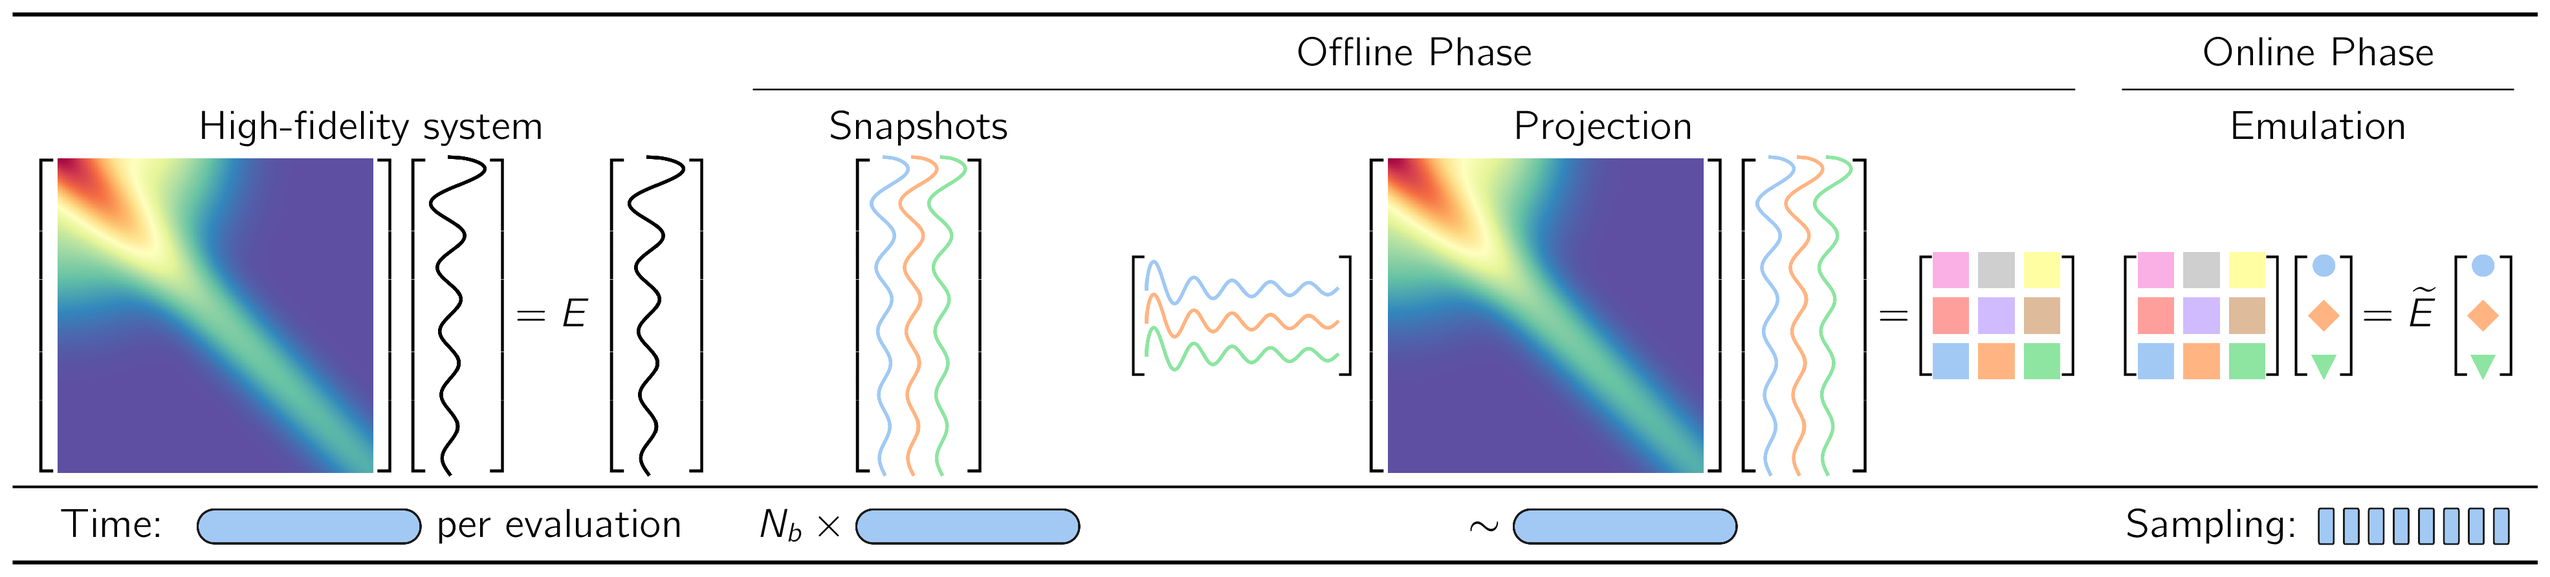
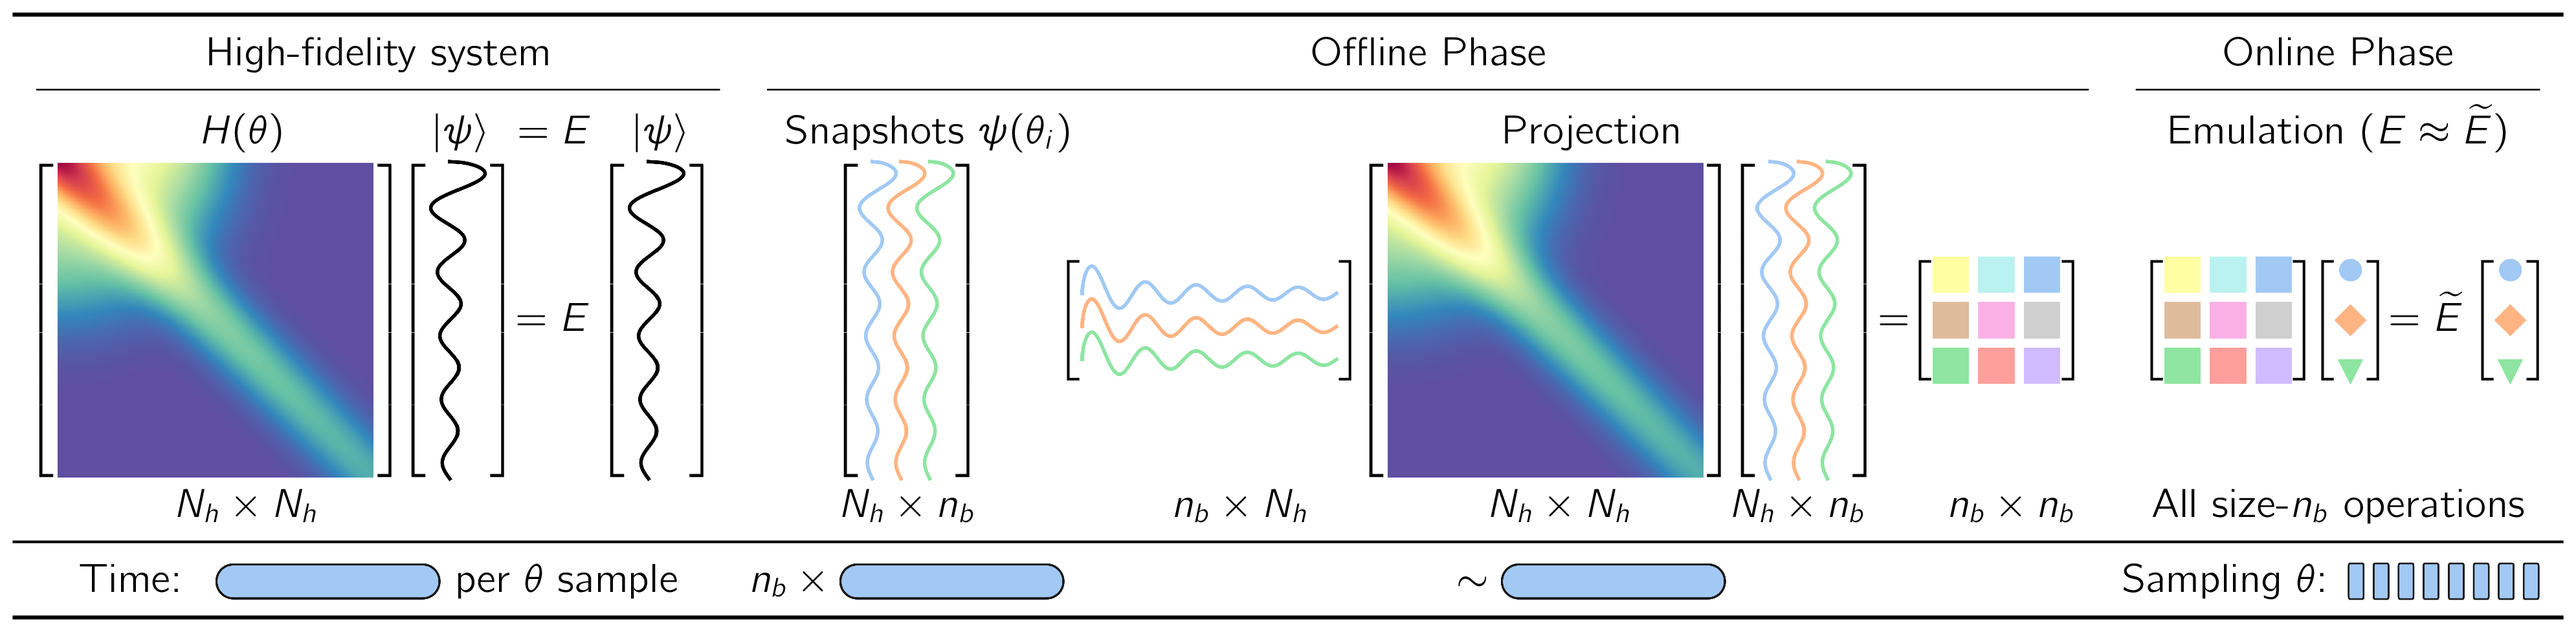
Update figure

diff --git a/docs/test_fig/tex/test_fig.tex b/docs/test_fig/tex/test_fig.tex
@@ -6,7 +6,7 @@
 \usepackage{booktabs}
 \usepackage[table]{xcolor}
 \usepackage{colortbl}
-
+\usepackage{braket}
 
 \graphicspath{ {../} }
 
@@ -29,12 +29,18 @@
 \toprule
 
 % &
-& \multicolumn{2}{c}{Offline Phase} & Online Phase\\
+High-fidelity system  & \multicolumn{2}{c}{Offline Phase} & Online Phase\\
 % \cmidrule(lr){3-4}\cmidrule(lr){5-5}
-\cmidrule(lr){2-3}\cmidrule(lr){4-4}
+\cmidrule(lr){1-1}\cmidrule(lr){2-3}\cmidrule(lr){4-4}
 
 % &
-High-fidelity system & Snapshots & Projection & Emulation \\
+\hspace{0.45in}$H(\theta)\hspace{0.43in}\ket{\psi}\hspace{0.05in}=E\hspace{0.06in}~\ket{\psi}$~
+%\!\!
+&
+\!\!\!\!Snapshots $\psi(\theta_i)$\!\!\!\!\!\!\!\!\!\!
+& Projection
+& Emulation ($E \approx \widetilde E$)
+\\
 
 % Steps
 % &
@@ -54,7 +60,7 @@ E
 \begin{bmatrix}
 \vcenter{\hbox{\includegraphics{wave_function.png}}}
 \end{bmatrix}
-\!\!
+%\!\!%\!\!
 $
 
 &
@@ -68,7 +74,7 @@ $
 &
 
 $
-\!\!
+\!\!\!\!\!\!
 \begin{bmatrix}
 \vcenter{\hbox{\includegraphics{basis_t.png}}}
 \end{bmatrix}
@@ -87,13 +93,13 @@ $
 \begin{bmatrix}
 \vcenter{\hbox{\includegraphics{projected_matrix.png}}}
 \end{bmatrix}
-\!\!
+
 $
 
 &
 
 $
-\!\!
+
 \begin{bmatrix}
 \vcenter{\hbox{\includegraphics{projected_matrix.png}}}
 \end{bmatrix}
@@ -108,16 +114,21 @@ $
 \vcenter{\hbox{\includegraphics{coefficients.png}}}
 \end{bmatrix}
 \!\!
-$
+$\\
+
+\!\!\!$N_h \times N_h$\hspace{0.75in} & $N_h \times n_b$ & \hspace{0.2in}$n_b \times N_h$\hspace{0.55in}$N_h \times N_h$\hspace{0.3in}$N_h \times n_b$\hspace{0.25in}$n_b \times n_b$ &
+% $n_b \times n_b$\hspace{0.6in}
+All size-$n_b$ operations
+
 \\\midrule
 
 % Time
 % $t$
 % &
 Time:~
-$\vcenter{\hbox{\includegraphics{time_long.png}}}$ per evaluation &
+$\vcenter{\hbox{\includegraphics{time_long.png}}}$ per $\theta$ sample &
 
-$N_b \times \vcenter{\hbox{\includegraphics{time_long.png}}}$
+\!\!\!$n_b \times \vcenter{\hbox{\includegraphics{time_long.png}}}$\!\!\!
 
 &
 
@@ -125,8 +136,9 @@ $\sim \vcenter{\hbox{\includegraphics{time_long.png}}}$
 
 &
 
-Sampling: $\vcenter{\hbox{\includegraphics{time_short.png}}}$
-
+\!\!\!\!%
+Sampling $\theta$: $\vcenter{\hbox{\includegraphics{time_short.png}}}$
+\!\!\!\!%
 \\
 
 \bottomrule
